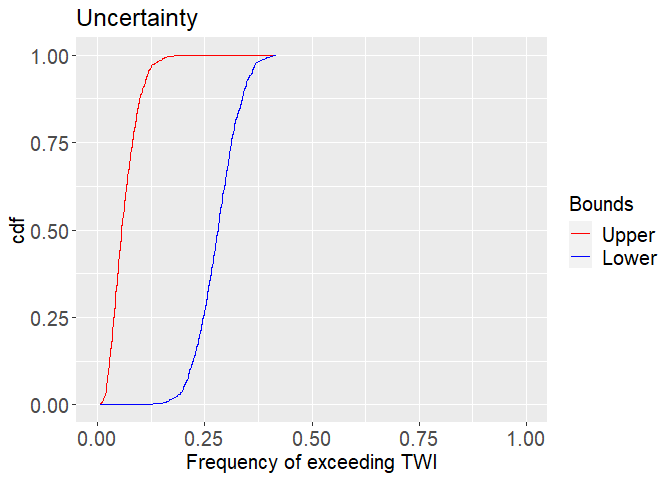
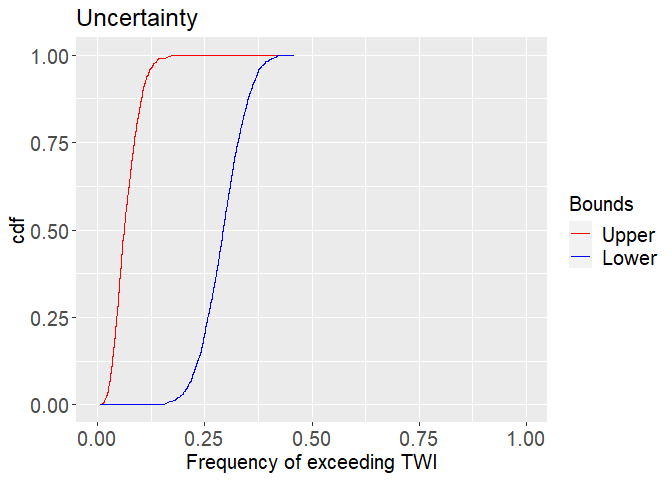
update

diff --git a/README.md b/README.md
@@ -61,12 +61,12 @@ TWI_pp_random_child <- unc_analysis_assessment(niter_ale = 5000, niter_epi = 500
 
 ## Expected frequency of exceeding the safety threshold
 TWI_pp_random_child$expected_frequency_exceeding
-#> [1] 0.00972916
+#> [1] 0.00967968
 
 ## Highest posterior density interval of the frequency of exceeding the safety threshold
 TWI_pp_random_child$hdi_frequency_exceeding
 #>  lower  upper 
-#> 0.0028 0.0168 
+#> 0.0034 0.0172 
 #> attr(,"credMass")
 #> [1] 0.95
 ```
@@ -91,12 +91,12 @@ changed `percentile_ale = 95`.
 
 ## Expected probability of exceeding the safety threshold
 TWI_pp_high_consumer_child$expected_frequency_exceeding
-#> [1] 0.06646228
+#> [1] 0.06332524
 
 ## Highest posterior density interval of the probability of exceeding the safety threshold
 TWI_pp_high_consumer_child$hdi_frequency_exceeding
 #>  lower  upper 
-#> 0.0150 0.1244 
+#> 0.0176 0.1210 
 #> attr(,"credMass")
 #> [1] 0.95
 ```
@@ -136,7 +136,7 @@ First, let us consider the case of a random child
   lower_bound_random_child <- bound_frequency_exceeding_bp(obj_func_bp = obj_func_bp, maximize = FALSE, 
                                             lower_parameters  = c(1, -5, -20), 
                                             upper_parameters  = c(6, 1, -10),
-                                            niter_ale = 1000, niter_epi = 1000, threshold = 1, percentile_ale = NULL,
+                                            niter_ale = 2000, niter_epi = 2000, threshold = 1, percentile_ale = NULL,
                                             suff_stat_concentration = data_assessment$log_concentration_ss_data,
                                             suff_stat_consumption = data_assessment$log_consumption_ss_data,
                                             consumption_change_vals_EKE = c(-15, 7.5), 
@@ -156,7 +156,7 @@ First, let us consider the case of a random child
   upper_bound_random_child <- bound_frequency_exceeding_bp(obj_func_bp = obj_func_bp, maximize = TRUE, 
                                            lower_parameters  = c(1, -5, -20), 
                                            upper_parameters  = c(6, 1, -10),
-                                           niter_ale = 1000, niter_epi = 1000, threshold = 1, 
+                                           niter_ale = 2000, niter_epi = 2000, threshold = 1, 
                                            percentile_ale = NULL,
                                            suff_stat_concentration = data_assessment$log_concentration_ss_data,
                                            suff_stat_consumption = data_assessment$log_consumption_ss_data,
@@ -180,7 +180,7 @@ Now, let us consider the case of a high consumer child.
   lower_bound_high_consumer_child <- bound_frequency_exceeding_bp(obj_func_bp = obj_func_bp, maximize = FALSE, 
                                                    lower_parameters  = c(1, -5, -20), 
                                                    upper_parameters  = c(6, 1, -10),
-                                                   niter_ale = 1000, niter_epi = 1000, threshold = 1, 
+                                                   niter_ale = 2000, niter_epi = 2000, threshold = 1, 
                                                    percentile_ale = 95,
                                                    suff_stat_concentration = data_assessment$log_concentration_ss_data,
                                                    suff_stat_consumption = data_assessment$log_consumption_ss_data,
@@ -202,7 +202,7 @@ Now, let us consider the case of a high consumer child.
   upper_bound_high_consumer_child <- bound_frequency_exceeding_bp(obj_func_bp = obj_func_bp, maximize = TRUE, 
                                                     lower_parameters  = c(1, -5, -20), 
                                                     upper_parameters  = c(6, 1, -10),
-                                                    niter_ale = 1000, niter_epi = 1000, threshold = 1, 
+                                                    niter_ale = 2000, niter_epi = 2000, threshold = 1, 
                                                     percentile_ale = 95,
                                                     suff_stat_concentration = data_assessment$log_concentration_ss_data,
                                                     suff_stat_consumption = data_assessment$log_consumption_ss_data,
@@ -258,7 +258,7 @@ As an example: Let us assume that a decision maker wants to know if the
 frequency of exceeding the safety threshold is low. Let us set 0.05, as
 an acceptable level of frequency of exceeding.
 
-Thus, the decision maker is interested in \(P(h > 0.05)\) is low.
+Thus, the decision maker is interested in \[P(h > 0.05)\] is low.
 
 In the precise probability case, the probability that the frequency of
 exceeding the safety threshold of a random child exceeds the acceptable
@@ -304,5 +304,5 @@ upper_bound = val(index = index_upper, frequency_exceeding = upper_bound_random_
 lower_bound
 #> [1] 0
 upper_bound
-#> [1] 0.685
+#> [1] 0.6515
 ```
